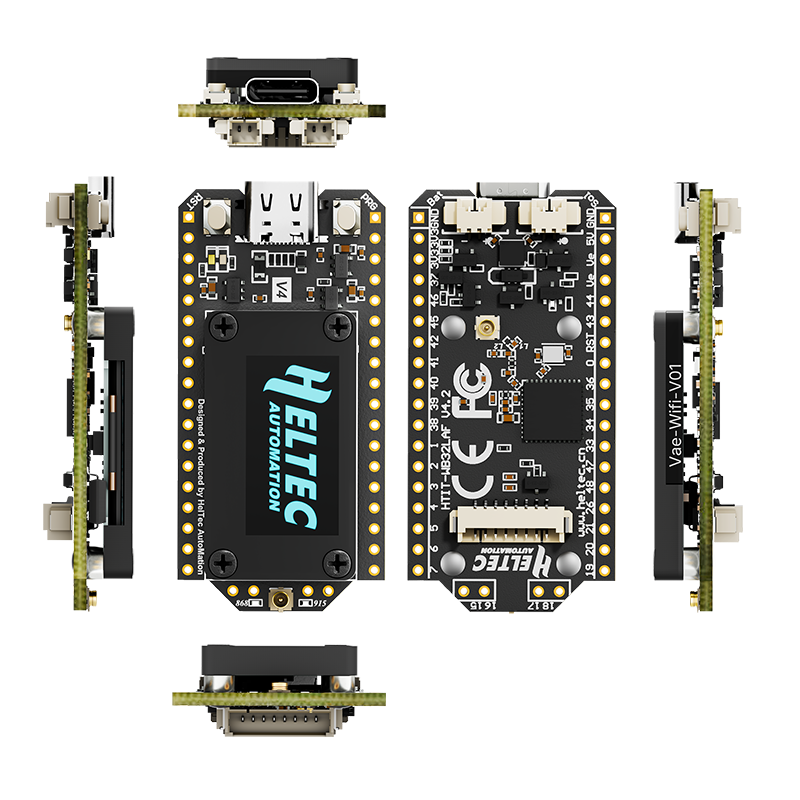
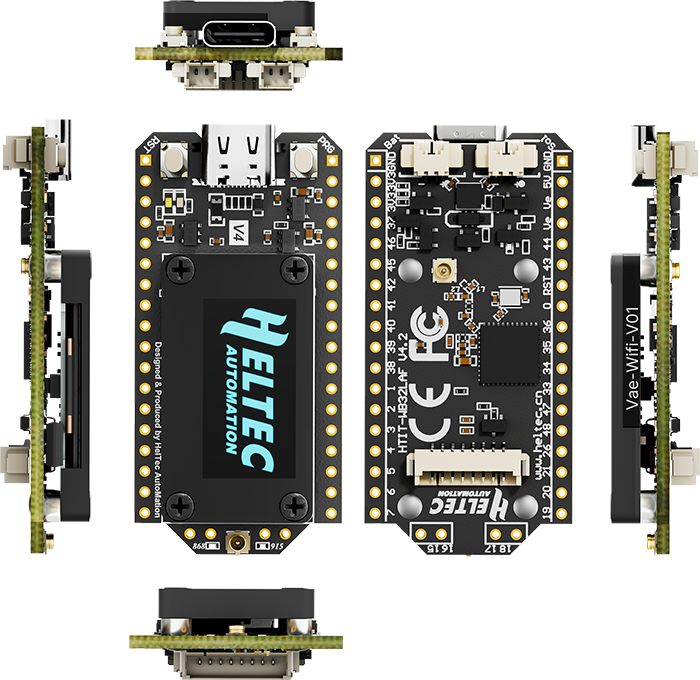
Slides: bigger hardware photos, tighter wording; changelog for v1.3
- Hardware slide: trim transparent padding off the three device PNGs and
  raise the shared height cap 0.24 -> 0.28\paperheight, so the P1-Pro
  repeater (small components) reads from the back. Fits 16:9 and 4:3.
- Time slide: drop the last_advert_timestamp field name and reword the
  advert anti-replay bullet; clears the last 16:9 overflow.
- Packet-anatomy appendix: trim the footnote to its Sources line (the
  staging aside lives in speakers-notes.md).
- CHANGELOG: add the v1.3 entry (this + the fact-check pass, P1-Pro price
  split, speaker-notes extraction, and the decrypt-grp-msg tool merged
  since v1.2).

diff --git a/meshcore-for-bitcoiners.tex b/meshcore-for-bitcoiners.tex
@@ -155,17 +155,17 @@
   \end{itemize}
   \vfill
   % A small device row, in bullet order: companion / portable / repeater.
-  % Images are background-removed PNGs; height-capped so they align and the row
-  % stays within \textwidth on both 16:9 and 4:3.
+  % Images are background-removed, tightly trimmed PNGs; height-capped so they
+  % align and the row stays within \textwidth on both 16:9 and 4:3.
   \centering
   \begin{minipage}[b]{0.27\paperwidth}\centering
-    \includegraphics[height=0.24\paperheight,width=\linewidth,keepaspectratio]{hw-t1000e}%
+    \includegraphics[height=0.28\paperheight,width=\linewidth,keepaspectratio]{hw-t1000e}%
   \end{minipage}\hfill
   \begin{minipage}[b]{0.27\paperwidth}\centering
-    \includegraphics[height=0.24\paperheight,width=\linewidth,keepaspectratio]{hw-heltec-v4}%
+    \includegraphics[height=0.28\paperheight,width=\linewidth,keepaspectratio]{hw-heltec-v4}%
   \end{minipage}\hfill
   \begin{minipage}[b]{0.27\paperwidth}\centering
-    \includegraphics[height=0.24\paperheight,width=\linewidth,keepaspectratio]{hw-sensecap-p1pro}%
+    \includegraphics[height=0.28\paperheight,width=\linewidth,keepaspectratio]{hw-sensecap-p1pro}%
   \end{minipage}
 \end{frame}
 
@@ -649,9 +649,9 @@
     \item That total order is what makes a \textbf{double-spend infeasible}
   \end{itemize}}{%
   \begin{itemize}
-    \item A node's \textbf{adverts} must move \textbf{forward in time}: a repeater
-      rejects one whose timestamp is $\le$ the last it saw for that key
-      (\texttt{last\_advert\_timestamp}) --- a per-sender anti-replay rule
+    \item A node's \textbf{adverts} must move \textbf{forward in time}: repeaters
+      reject any advert not newer than the last one from that key --- a
+      per-sender anti-replay rule
     \item Reset your radio with the wrong clock $\to$ your adverts are silently
       dropped and you stop appearing on the mesh
   \end{itemize}}{%
@@ -839,7 +839,7 @@
     repeaters forward it --- not every node, the way Meshtastic floods. The path
     \emph{is} the route.
   \end{alertblock}
-  {\footnotesize Skip unless the room likes wire formats. Sources:
+  {\footnotesize Sources:
   \texttt{docs.meshcore.io/packet\_format}, DeepWiki 7.1, \texttt{meshcore-decoder}.}
 \end{frame}
 

diff --git a/CHANGELOG.md b/CHANGELOG.md
@@ -18,6 +18,64 @@ file edits.
 
 This format is loosely based on [Keep a Changelog](https://keepachangelog.com/).
 
+## [v1.3] — 2026-07-02
+
+### Added
+- **`decrypt-grp-msg` — a MeshCore group-message decrypter / cracker**
+  (`mcgrpdec`, a `uv` project). Given an observed group/channel packet it
+  recovers the plaintext when the channel key is known, and brute-forces
+  `#room` names otherwise — the **brainwallet attack the deck describes, now
+  runnable**. CPU and **WebGPU** backends, a wordlist builder, and a live
+  progress line showing **names/s + ETA** over a sliding-rate window. Defaults
+  to the correct `SHA256("#"+name)` derivation (`--also-plain` opts the old
+  bare-name pass back in), halving brute-force work.
+- **`speakers-notes.md` now carries the spoken cues and fact provenance.** About
+  100 lines of mixed `% SPEAKER` cues, source citations, and derivations
+  (time-on-air math, duty-cycle) moved out of the `.tex` into the notes, ordered
+  by slide; the `.tex` keeps layout notes plus one-line pointers and the
+  load-bearing warnings (frequency, advert-scope rule, 4:3 escape hatch).
+
+### Changed
+- **Hardware slide: bigger device photos.** The three device images were trimmed
+  of their transparent padding and the shared height cap raised
+  (`0.24` → `0.28\paperheight`) — the **P1-Pro repeater** (a kit shot with small
+  components) is now roughly **twice as large** and the row reads clearly from
+  the back of the room. Fits on both 16:9 and 4:3.
+- **Repeater price split out:** the SenseCAP Solar Node P1-Pro now reads
+  **~100 EUR device + ~30 antenna** (was a ~130 all-in figure) and "runs 24/7
+  off-grid" rather than "for days".
+- **Time slide bullet tightened:** dropped the `last_advert_timestamp` field name
+  from the slide (it lives in the notes) and reworded to "**repeaters reject any
+  advert not newer than the last one from that key**" — clears the last 16:9
+  overflow.
+
+### Fixed
+- **EU/UK Narrow preset frequency corrected to 869.618 MHz** (was 869.525),
+  verified 2026-07-02 against meshcore.ch/settings, chatters.io,
+  docs.meshcore.io/faq and [meshcore-austria.at](https://meshcore-austria.at)
+  (the Oct-2025 narrow migration). SF 8 / BW 62.5 kHz / CR 4/8 unchanged, and it
+  stays in the 10%-duty **869.4–869.65 MHz** "P" sub-band, so the airtime math
+  holds.
+- **Bitcoin-side accuracy pass** (verified against primary sources): throughput
+  updated to mid-2026 reality (**~3,000–4,000 tx/block, ~5–7 tx/s**; "block size"
+  → block space / 4M weight units); "double-spend impossible" → **infeasible**
+  (probabilistic finality); **HASH160** called a *shorter hash*, not truncation;
+  a **Taproot** caveat on "address = hash of the pubkey" (key-path outputs skip
+  the hash); Lightning gossips the **public** graph (private channels aren't
+  announced); the SX1262 claim softened to **power, not impossibility** (SDRs can
+  decode LoRa in software); the bitcoin.com line reworded to "**marketed Bitcoin
+  Cash as Bitcoin**".
+- **Hard-fork slide made precise:** pre-1.14 repeaters still relay 1-byte paths
+  and **silently drop** wider prefixes ("falls off" → "fades off"); the Bitcoin
+  side now says old nodes reject the new blocks (rules loosened).
+- **Packet-anatomy appendix footnote** trimmed to just its **Sources:** line —
+  the "skip unless the room likes wire formats" staging aside moved to the
+  speaker notes.
+- **Wording / engagement:** "fires the telco and the state" → "and the SIM
+  registry behind it"; the fat-pipe example switched to Wi-Fi / sneakernet;
+  expanded the cryptic "(1 → 1–3 B)" prefix note; bolded the missing load-bearing
+  phrase on the open-source-firmware bullet.
+
 ## [v1.2] — 2026-06-30
 
 ### Added
@@ -454,7 +512,8 @@ First complete draft of the talk — end to end, buildable, releasable.
   the scope.
 - MeshCore launch framed as **late 2024** per Wikipedia, not "early 2025".
 
-[Unreleased]: https://github.com/bitcoinaustria/meshcore-for-bitcoiners/compare/v1.2...HEAD
+[Unreleased]: https://github.com/bitcoinaustria/meshcore-for-bitcoiners/compare/v1.3...HEAD
+[v1.3]: https://github.com/bitcoinaustria/meshcore-for-bitcoiners/releases/tag/v1.3
 [v1.2]: https://github.com/bitcoinaustria/meshcore-for-bitcoiners/releases/tag/v1.2
 [v1.1]: https://github.com/bitcoinaustria/meshcore-for-bitcoiners/releases/tag/v1.1
 [v1.0]: https://github.com/bitcoinaustria/meshcore-for-bitcoiners/releases/tag/v1.0
